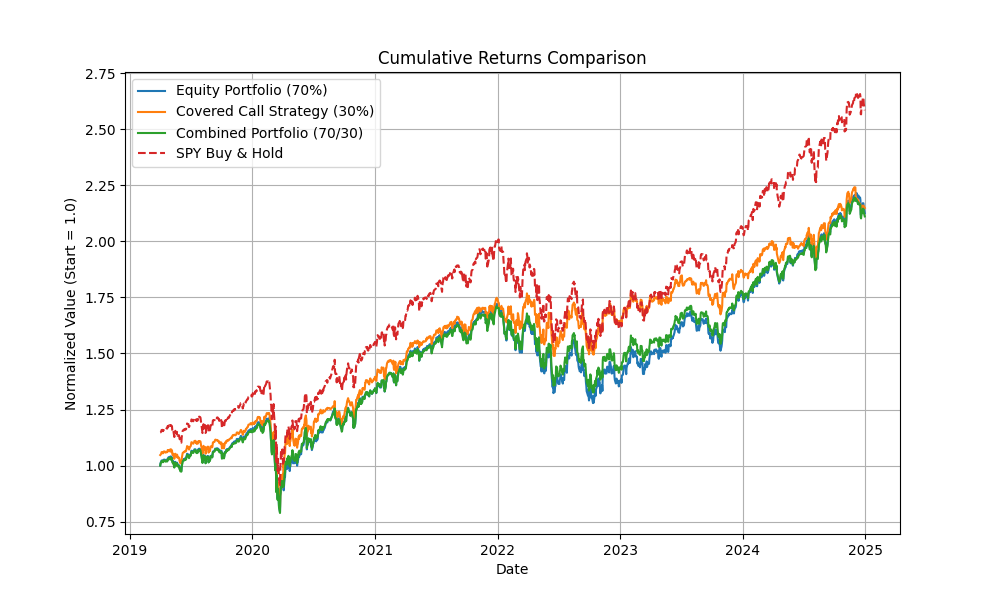
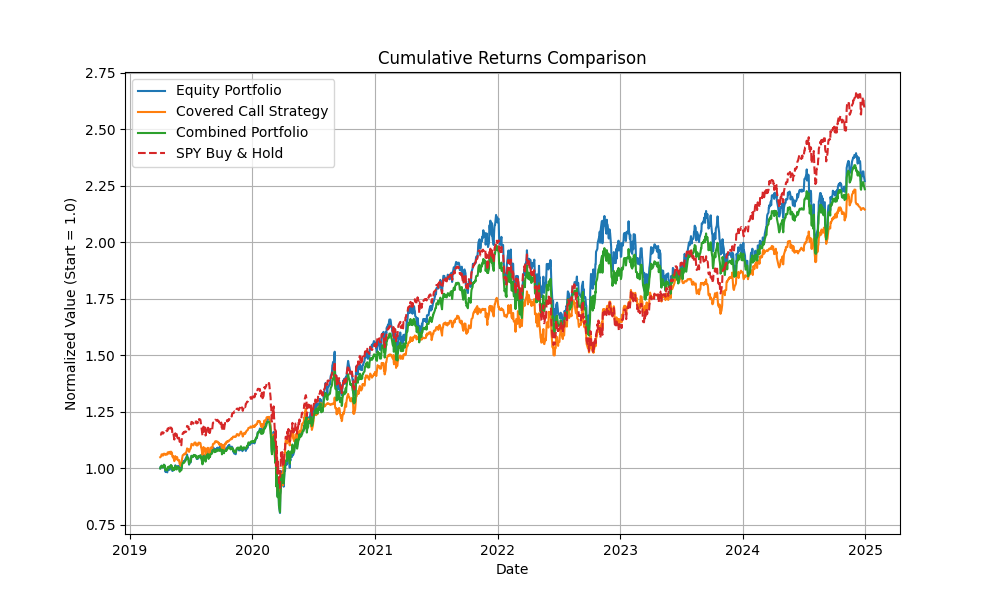
Increased effectiveness of equity portfolio, need to increase covered call strategy now

diff --git a/scripts/portfolio.py b/scripts/portfolio.py
@@ -3,21 +3,54 @@ import pandas as pd
 import yfinance as yf
 import matplotlib.pyplot as plt
 from scipy.stats import norm
+from datetime import timedelta
+# PyPortfolioOpt imports:
+from pypfopt import EfficientFrontier, risk_models, expected_returns
 
 # --- Configuration ---
 Start_Date = "2019-01-01"
 End_Date   = "2024-12-31"
-risk_free_equity = 0.02   # For CAPM and Sharpe computations
-risk_free_option = 0.01   # For Black-Scholes pricing
+risk_free_equity = 0.02      # For CAPM & Sharpe computations (annual)
+risk_free_option = 0.01      # For Black-Scholes pricing (annual)
 shares_per_contract = 100
-strike_buffer = 0.05      # Call strike 5% above current price
 option_term_days = 30
-transaction_cost = 0.001  # 0.1% transaction cost per trade
+transaction_cost = 0.001     # 0.1% per trade cost
 
-# Same ETF list for both strategies and market benchmark
+# Default parameters; these can be varied
+calibration_years = 2        # Use the most recent 2 years of data for calibration in equity optimization.
+base_strike_buffer = 0.03    # Base strike buffer (3%)
+strike_buffer_multiplier = 0.05  # Additional buffer per unit volatility
+max_strike_buffer = 0.10     # Maximum allowed strike buffer
+
+# Dynamic weight allocation parameters
+high_equity_weight = 0.70
+low_equity_weight = 0.60
+vol_threshold = 0.20         # If SPY volatility (annualized) exceeds 20%
+
+# Same ETF list and market benchmark
 etf_list = ['XLY', 'XLP', 'XLE', 'XLF', 'XLV', 
             'XLI', 'XLB', 'XLRE', 'XLK', 'XLU', 'XLC']
 benchmark_ticker = 'SPY'
+
+# --- Helper Functions ---
+
+def dynamic_strike_buffer(current_vol, base=base_strike_buffer, multiplier=strike_buffer_multiplier, cap=max_strike_buffer):
+    """
+    Compute a dynamic strike buffer based on the current volatility.
+    For example, a higher volatility increases the buffer but is capped.
+    """
+    buffer = base + multiplier * current_vol  # current_vol is annualized volatility
+    return min(buffer, cap)
+
+def dynamic_weight_allocation(current_vol, low=low_equity_weight, high=high_equity_weight, threshold=vol_threshold):
+    """
+    Adjust the overall equity allocation dynamically based on market volatility.
+    If current SPY volatility is above the threshold, reduce equity allocation.
+    """
+    if current_vol >= threshold:
+        return low
+    else:
+        return high
 
 # --- Black-Scholes Call Option Pricing ---
 def black_scholes_call(S, K, T, r, sigma):
@@ -26,31 +59,31 @@ def black_scholes_call(S, K, T, r, sigma):
     """
     if T <= 0 or sigma <= 0:
         return max(S - K, 0.0)
-    d1 = (np.log(S / K) + (r + 0.5 * sigma**2)*T) / (sigma * np.sqrt(T))
+    d1 = (np.log(S / K) + (r + 0.5 * sigma ** 2) * T) / (sigma * np.sqrt(T))
     d2 = d1 - sigma * np.sqrt(T)
-    call_price = S * norm.cdf(d1) - K * np.exp(-r*T) * norm.cdf(d2)
-    return call_price
+    return S * norm.cdf(d1) - K * np.exp(-r * T) * norm.cdf(d2)
 
 # --- Covered Call Simulation for a Single ETF ---
 def simulate_covered_call_for_etf(ticker, price_series):
     """
-    Simulate daily portfolio values for a covered call strategy on a single ETF.
+    Simulate daily portfolio values for a covered call strategy on one ETF.
+    Incorporates dynamic strike buffer using the day's volatility.
     """
     df = pd.DataFrame({'Price': price_series.dropna()})
     df['LogReturn'] = np.log(df['Price'] / df['Price'].shift(1))
-    df['Volatility'] = df['LogReturn'].rolling(window=30).std() * np.sqrt(252)
+    df['Volatility'] = df['LogReturn'].rolling(window=30).std() * np.sqrt(252)  # Annualized vol.
     df.dropna(inplace=True)
     
-    # Identify monthly option sale dates (first trading day of each month)
+    # Identify monthly option sale dates – first trading day of each month.
     monthly_dates = df.resample('MS').first().index
     monthly_dates = [d for d in monthly_dates if d in df.index]
     
-    # Initialize portfolio: 100 shares and zero cash.
+    # Initialize: Start with 100 shares and zero cash.
     shares = shares_per_contract
     cash = 0.0
     portfolio_values = []
     dates = []
-    active_calls = []  # Track active call positions: {'strike': K, 'expiration': date}
+    active_calls = []  # Each call: {'strike': K, 'expiration': date}
     
     for current_date in df.index:
         S = df.at[current_date, 'Price']
@@ -59,7 +92,7 @@ def simulate_covered_call_for_etf(ticker, price_series):
         dates.append(current_date)
         portfolio_values.append(portfolio_val)
         
-        # Process option expirations.
+        # Check for option expirations.
         for pos in list(active_calls):
             if current_date >= pos['expiration']:
                 K = pos['strike']
@@ -68,28 +101,30 @@ def simulate_covered_call_for_etf(ticker, price_series):
                     shares = 0
                 active_calls.remove(pos)
         
-        # On monthly sale dates, sell a new call.
+        # On a monthly sale date, sell a new call.
         if current_date in monthly_dates:
-            # If shares were called away, buy new shares (apply transaction cost on purchase)
+            # If shares were called away, buy new shares (incur cost + transaction cost).
             if shares == 0:
                 shares = shares_per_contract
                 cash -= shares * S
                 cash -= (shares * S) * transaction_cost
-            K = S * (1 + strike_buffer)
+            # Calculate dynamic strike buffer using current volatility.
+            dyn_buffer = dynamic_strike_buffer(sigma)
+            K = S * (1 + dyn_buffer)
             expiration_date = current_date + pd.Timedelta(days=option_term_days)
             T = option_term_days / 252.0
             premium = black_scholes_call(S, K, T, risk_free_option, sigma) * shares_per_contract
             cash += premium
-            cash -= (shares * S) * transaction_cost  # transaction cost on option sale
+            cash -= (shares * S) * transaction_cost  # transaction cost on sale
             active_calls.append({'strike': K, 'expiration': expiration_date})
     
     return pd.Series(portfolio_values, index=dates)
 
-# --- Covered Call Portfolio (Combined Equally Across ETFs) ---
+# --- Covered Call Portfolio ---
 def simulate_covered_calls_portfolio(etfs, price_data):
     """
-    Run the covered call simulation for each ETF and combine them equally.
-    Returns a normalized (start = 1) daily series.
+    Run the covered call simulation for each ETF and combine equally.
+    Returns a normalized daily series.
     """
     portfolios = {}
     for ticker in etfs:
@@ -105,12 +140,11 @@ def simulate_covered_calls_portfolio(etfs, price_data):
     normalized = combined_portfolio / combined_portfolio.iloc[0]
     return normalized
 
-# --- Equity Portfolio Simulation (Quarterly-Rebalanced Sharpe-Optimal) ---
-def simulate_equity_portfolio(etfs, benchmark, price_data):
+# --- Equity Portfolio Simulation (Using PyPortfolioOpt) ---
+def simulate_equity_portfolio(etfs, benchmark, price_data, calib_years=calibration_years):
     """
-    Simulate a quarterly-rebalanced equity portfolio using CAPM estimates and 
-    Monte Carlo simulation for a Sharpe-optimal allocation.
-    Returns a normalized (start = 1) daily series.
+    Simulate a rebalanced equity portfolio using a rolling calibration window and PyPortfolioOpt.
+    Returns a normalized daily series.
     """
     daily_returns = price_data.pct_change().dropna()
     rebalance_dates = daily_returns.resample('QS').first().index
@@ -123,41 +157,24 @@ def simulate_equity_portfolio(etfs, benchmark, price_data):
     for i, rebalance_date in enumerate(rebalance_dates):
         if rebalance_date > daily_returns.index[-1]:
             break
-        calib_data = daily_returns.loc[:rebalance_date]
-        etf_calib = calib_data[etfs]
-        bench_calib = calib_data[benchmark]
-        avg_daily_bench = bench_calib.mean()
-        annual_market_return = (1 + avg_daily_bench)**252 - 1
-        exp_returns = {}
-        for etf in etf_calib.columns:
-            cov = np.cov(etf_calib[etf], bench_calib)[0, 1]
-            var = bench_calib.var()
-            beta = cov / var if var != 0 else 0.0
-            exp_returns[etf] = risk_free_equity + beta * (annual_market_return - risk_free_equity)
-        exp_ret_series = pd.Series(exp_returns)
-        cov_matrix = etf_calib.cov() * 252
-        
-        num_portfolios = 10000
-        best_sharpe = -np.inf
-        best_weights = None
-        np.random.seed(42)
-        for _ in range(num_portfolios):
-            w = np.random.rand(len(etfs))
-            w /= np.sum(w)
-            port_return = np.dot(exp_ret_series.values, w)
-            port_vol = np.sqrt(np.dot(w.T, np.dot(cov_matrix, w)))
-            sharpe = (port_return - risk_free_equity) / (port_vol if port_vol != 0 else 1)
-            if sharpe > best_sharpe:
-                best_sharpe = sharpe
-                best_weights = w
-        optimal_weights = pd.Series(best_weights, index=etfs)
-        
-        # Apply a rebalancing transaction cost after the first quarter.
+        # Define the calibration window (most recent calib_years)
+        window_start = rebalance_date - pd.DateOffset(years=calib_years)
+        calib_data = daily_returns.loc[window_start:rebalance_date]
+        # Use PyPortfolioOpt to compute expected returns and covariance.
+        mu = expected_returns.mean_historical_return(price_data.loc[window_start:rebalance_date], frequency=252)
+        Sigma = risk_models.sample_cov(price_data.loc[window_start:rebalance_date], frequency=252)
+        # Use EfficientFrontier to maximize Sharpe Ratio.
+        ef = EfficientFrontier(mu, Sigma, weight_bounds=(0, 1))
+        ef.max_sharpe(risk_free_equity)
+        weights = ef.clean_weights()
+        optimal_weights = pd.Series(weights)
+        # Apply rebalancing cost after the first rebalance.
         if i > 0:
             current_value *= (1 - transaction_cost)
         
+        # Determine period end.
         if i < len(rebalance_dates) - 1:
-            next_start = rebalance_dates[i+1]
+            next_start = rebalance_dates[i + 1]
             period_idx = daily_returns.index[daily_returns.index < next_start]
             period_end = period_idx[-1] if len(period_idx) > 0 else daily_returns.index[-1]
         else:
@@ -171,7 +188,8 @@ def simulate_equity_portfolio(etfs, benchmark, price_data):
             if day == rebalance_date:
                 dates.append(day)
                 values.append(current_value)
-            daily_ret = np.dot(period_returns.loc[day, etfs], optimal_weights)
+            # Compute daily portfolio return via dot product with optimal weights.
+            daily_ret = np.dot(period_returns.loc[day, etfs], optimal_weights[etfs])
             current_value *= (1 + daily_ret)
             dates.append(day)
             values.append(current_value)
@@ -181,15 +199,28 @@ def simulate_equity_portfolio(etfs, benchmark, price_data):
     equity_index = equity_portfolio / equity_portfolio.iloc[0]
     return equity_index
 
+# --- Bootstrap Sensitivity Analysis ---
+def bootstrap_sensitivity(index_series, n_iter=1000, sample_frac=0.5):
+    """
+    Perform bootstrap resampling on the portfolio's daily returns (derived from index_series)
+    to provide sensitivity analysis for key risk metrics.
+    Returns a DataFrame with the bootstrap distribution of metrics.
+    """
+    returns = index_series.pct_change().dropna()
+    metrics_list = []
+    for _ in range(n_iter):
+        sample = returns.sample(frac=sample_frac, replace=True)
+        sample_series = (1 + sample).cumprod()
+        cum_ret, ann_ret, ann_vol, sharpe, max_dd = compute_risk_metrics(sample_series)
+        metrics_list.append((cum_ret, ann_ret, ann_vol, sharpe, max_dd))
+    bootstrap_df = pd.DataFrame(metrics_list, columns=["Cumulative Return", "Annual Return", "Volatility", "Sharpe", "Max Drawdown"])
+    return bootstrap_df
+
 # --- Compute Risk Metrics ---
 def compute_risk_metrics(index_series, risk_free=0.02):
     """
-    Given a normalized index time series, compute:
-      - Cumulative Return (%)
-      - Annualized Return (%)
-      - Annualized Volatility (%)
-      - Sharpe Ratio
-      - Maximum Drawdown (%)
+    Compute key risk metrics for a normalized index series.
+    Returns cumulative return, annualized return, volatility, Sharpe ratio, and max drawdown.
     """
     returns = index_series.pct_change().dropna()
     cumulative_return = index_series.iloc[-1] / index_series.iloc[0] - 1
@@ -213,31 +244,38 @@ if __name__ == "__main__":
     equity_index = simulate_equity_portfolio(etf_list, benchmark_ticker, price_data)
     covered_call_index = simulate_covered_calls_portfolio(etf_list, price_data)
     
-    # Define a common full date range starting at the later of the two series' first dates:
+    # Use common full date range starting at the later of the two series' first dates.
     common_start = max(equity_index.index.min(), covered_call_index.index.min())
     full_dates = pd.date_range(start=common_start, end=price_data.index.max(), freq='B')
     
-    # Reindex the simulated series using both forward and backward fill
+    # Reindex simulated series using both forward and backward fill.
     equity_index_full = equity_index.reindex(full_dates).ffill().bfill()
     covered_call_index_full = covered_call_index.reindex(full_dates).ffill().bfill()
     
-    # Compute daily returns (fill missing with 0) for the separate series
+    # Compute daily returns for each.
     equity_daily_ret = equity_index_full.pct_change().fillna(0)
     option_daily_ret = covered_call_index_full.pct_change().fillna(0)
     
-    # Combined portfolio via daily returns weighted 70/30 then compounded
-    combined_daily_ret = 0.7 * equity_daily_ret + 0.3 * option_daily_ret
+    # Get current SPY volatility (using a 30-day window on SPY)
+    spy_prices = price_data[benchmark_ticker]
+    spy_returns = spy_prices.pct_change().dropna()
+    spy_vol = spy_returns.rolling(window=30).std().iloc[-1] * np.sqrt(252)
+    dyn_equity_weight = dynamic_weight_allocation(spy_vol)
+    
+    print(f"Dynamic equity weight based on SPY volatility ({spy_vol:.2%}): {dyn_equity_weight:.2f}")
+    
+    # Combined portfolio via daily returns weighted dynamically (equity weight and remainder for options).
+    combined_daily_ret = dyn_equity_weight * equity_daily_ret + (1 - dyn_equity_weight) * option_daily_ret
     combined_index = (1 + combined_daily_ret).cumprod()
     
-    # SPY Buy & Hold: normalized series reindexed on common dates
-    spy_index = price_data[benchmark_ticker] / price_data[benchmark_ticker].iloc[0]
-    spy_index = spy_index.reindex(full_dates).ffill().bfill()
+    # SPY Buy & Hold (normalized) reindexed on common dates.
+    spy_index = (price_data[benchmark_ticker] / price_data[benchmark_ticker].iloc[0]).reindex(full_dates).ffill().bfill()
     
-    # Plot cumulative returns for each strategy
+    # Plot cumulative returns.
     plt.figure(figsize=(10,6))
-    plt.plot(equity_index_full.index, equity_index_full.values, label='Equity Portfolio (70%)')
-    plt.plot(covered_call_index_full.index, covered_call_index_full.values, label='Covered Call Strategy (30%)')
-    plt.plot(combined_index.index, combined_index.values, label='Combined Portfolio (70/30)')
+    plt.plot(equity_index_full.index, equity_index_full.values, label='Equity Portfolio')
+    plt.plot(covered_call_index_full.index, covered_call_index_full.values, label='Covered Call Strategy')
+    plt.plot(combined_index.index, combined_index.values, label='Combined Portfolio')
     plt.plot(spy_index.index, spy_index.values, label='SPY Buy & Hold', linestyle='--')
     plt.title('Cumulative Returns Comparison')
     plt.xlabel('Date')
@@ -245,12 +283,13 @@ if __name__ == "__main__":
     plt.legend(loc='best')
     plt.grid(True)
     plt.savefig('cumulative_returns_comparison.png')
+    plt.show()
     
-    # Compute risk metrics for each strategy
+    # Compute risk metrics.
     strategies = {
-        'Equity Portfolio (70%)': equity_index_full,
-        'Covered Call Strategy (30%)': covered_call_index_full,
-        'Combined Portfolio (70/30)': combined_index,
+        'Equity Portfolio': equity_index_full,
+        'Covered Call Strategy': covered_call_index_full,
+        'Combined Portfolio': combined_index,
         'SPY Buy & Hold': spy_index
     }
     
@@ -270,7 +309,12 @@ if __name__ == "__main__":
     print("\nRisk Metrics Comparison:")
     print(metrics_df)
     
-    # Write risk metrics to Excel
+    # Write risk metrics to Excel.
     excel_filename = "portfolio_risk_metrics.xlsx"
     metrics_df.to_excel(excel_filename, index=False)
     print(f"\nRisk metrics have been written to {excel_filename}")
+    
+    # Perform bootstrap sensitivity analysis on the combined portfolio.
+    bootstrap_results = bootstrap_sensitivity(combined_index, n_iter=500, sample_frac=0.5)
+    print("\nBootstrap Sensitivity Analysis (first 5 rows):")
+    print(bootstrap_results.head())
